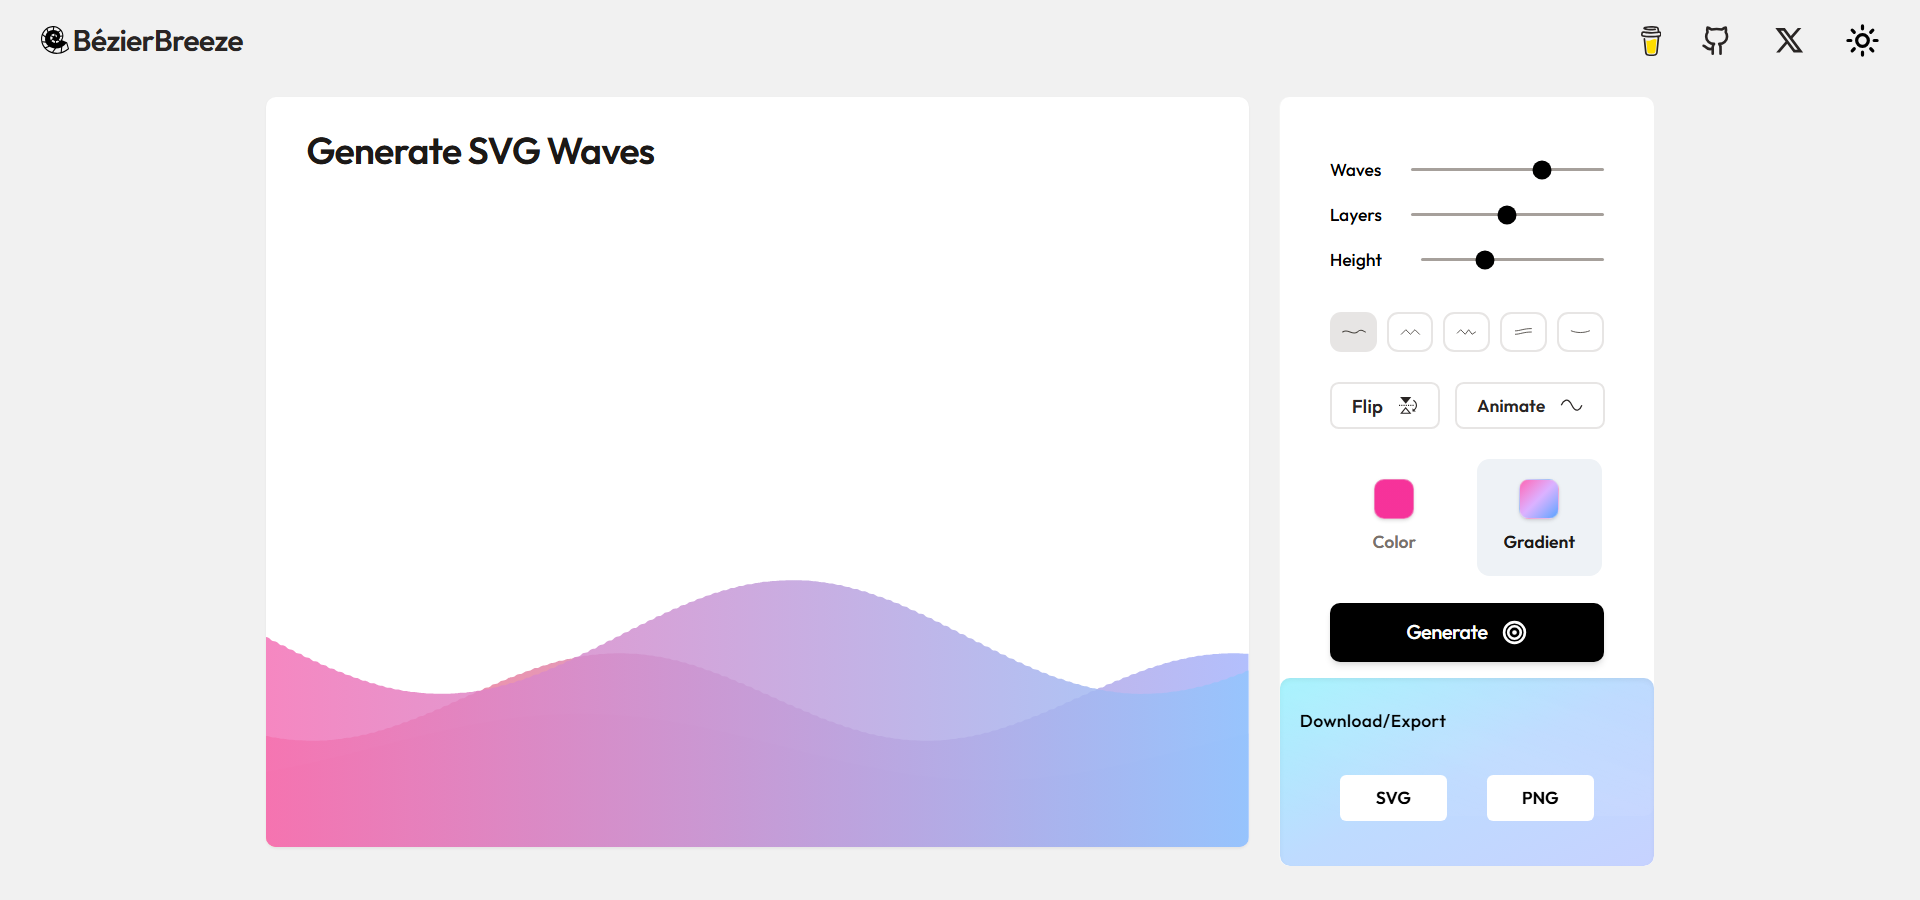
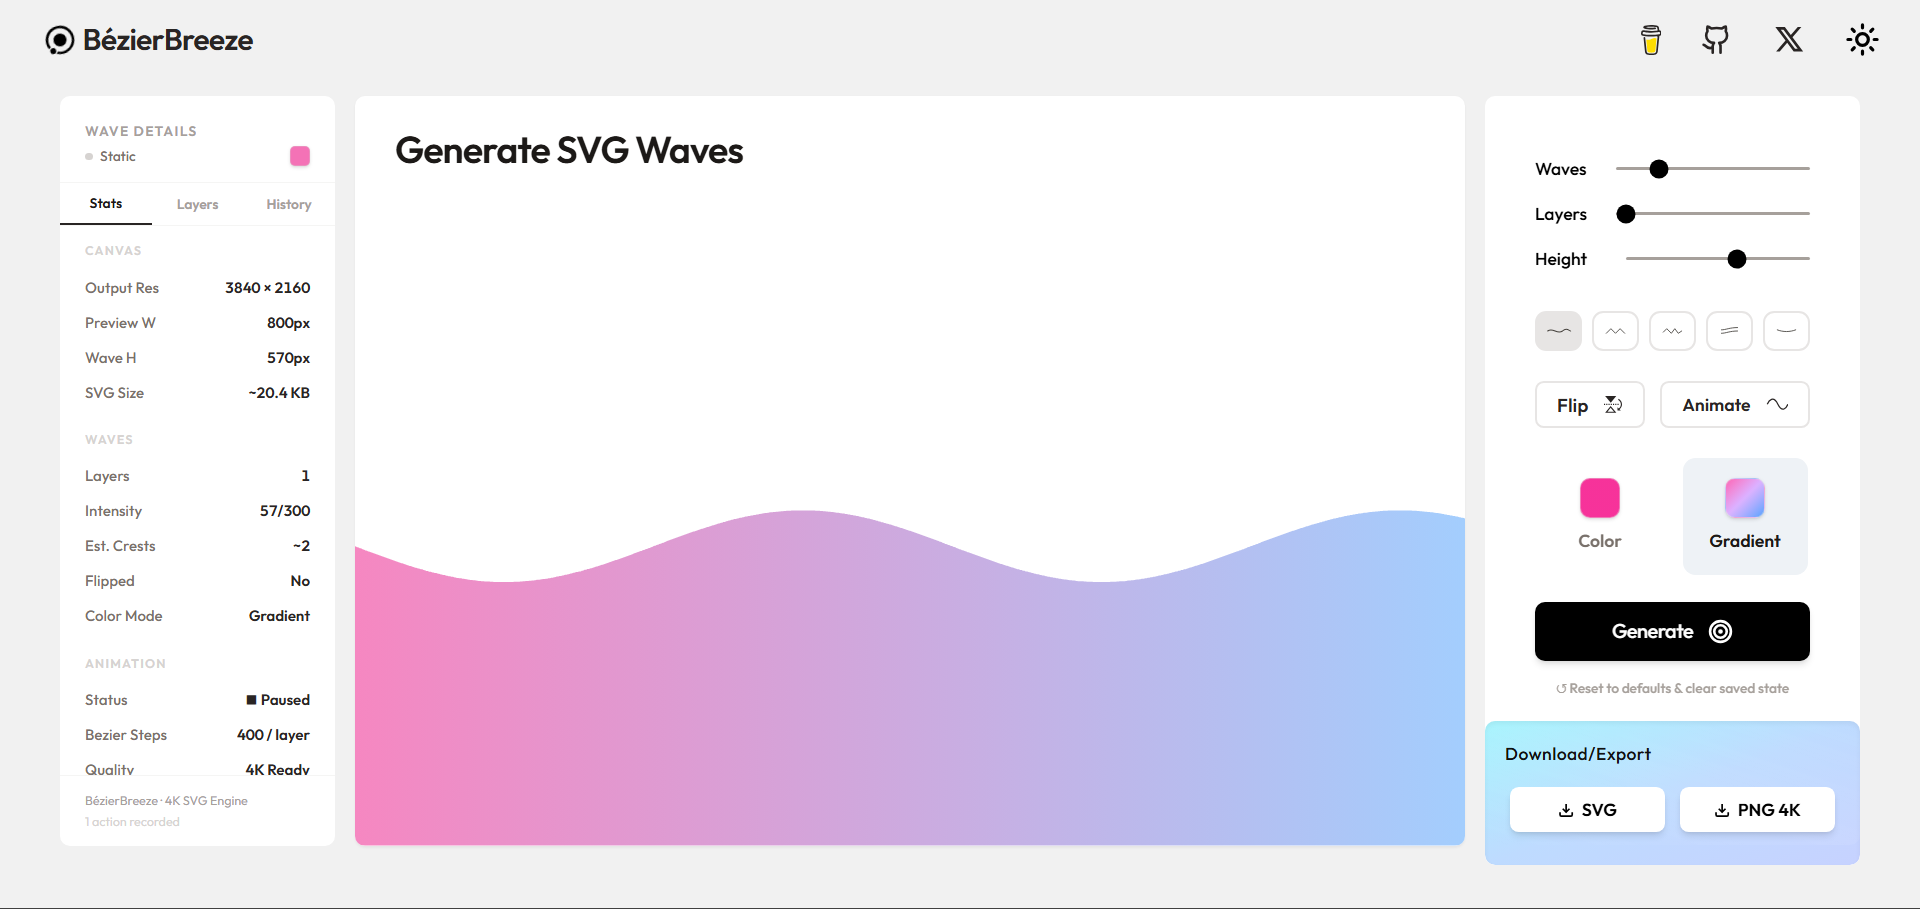
docs: update README with 4K engine, details panel, 30+ waves, localStorage persistence, and project structure

diff --git a/src/components/details/DetailsPanel.jsx b/src/components/details/DetailsPanel.jsx
@@ -57,9 +57,7 @@ export function DetailsPanel({
   return (
     <div
       className={`w-[220px] min-w-[220px] h-[600px]  rounded-[8px] flex flex-col overflow-hidden transition-colors duration-300 ${
-        isDark
-          ? 'bg-[#0E141B] border border-neutral-800/80'
-          : 'bg-white border border-stone-100 text-stone-800'
+        isDark ? 'bg-[#0E141B]' : 'bg-white text-stone-800'
       }`}
     >
       {/* Header */}

diff --git a/src/components/controls/ControlPanel.jsx b/src/components/controls/ControlPanel.jsx
@@ -59,7 +59,7 @@ export function ControlPanel({
 
   return (
     <div
-      className={`w-[280px] min-w-[300px] h-[615px] relative top-2 rounded-[8px] scrollbar-none flex overflow-hidden flex-col justify-between transition-colors duration-300 ${isDark ? 'bg-[#0E141B]' : 'bg-white border-l border-stone-100 text-stone-800'}`}
+      className={`w-[280px] min-w-[300px] h-[615px] relative top-2 rounded-[8px] scrollbar-none flex overflow-hidden flex-col justify-between transition-colors duration-300 ${isDark ? 'bg-[#0E141B]' : 'bg-white  text-stone-800'}`}
     >
       <div className="space-y-6 px-10 pt-8">
         {/* Master Sliders */}

diff --git a/README.md b/README.md
@@ -5,11 +5,10 @@
 <h1 align="center">BézierBreeze</h1>
 
 <p align="center">
-  A smooth SVG wave generator built with React.
-Create layered, customizable wave backgrounds using cubic Bezier curves.
-Adjust intensity, layers, shapes, colors, and gradients — then export as SVG, PNG, or raw code.
+  A smooth, 4K-ready SVG wave generator built with React.<br />
+  Create layered, customizable wave backgrounds using cubic Bézier curves.<br />
+  Adjust intensity, layers, shapes, colors, and gradients - then export at full 4K resolution as SVG or PNG.
 </p>
-
 
 <p align="center">
   <a href="https://bezierbreeze.vercel.app">
@@ -18,82 +17,169 @@ Adjust intensity, layers, shapes, colors, and gradients — then export as SVG, 
 </p>
 
 <p align="center">
-  <img src="./public/previewLight.png" width="100%" alt="BézierBreeze Demo" />
-  <img src="./public/previewDark.png" width="100%" alt="BézierBreeze Demo" />
+  <img src="./public/previewLight.png" width="100%" alt="BézierBreeze Light Mode" />
+  <img src="./public/previewDark.png" width="100%" alt="BézierBreeze Dark Mode" />
 </p>
+
+---
 
 ## What is BézierBreeze?
 
-**BézierBreeze** is a free, open‑source SVG wave generator built with React. It uses smooth cubic Bézier curves to create layered, customisable wave patterns that you can use for website headers, backgrounds, dividers, or any design project.
+**BézierBreeze** is a free, open-source SVG wave generator built with React. It uses smooth cubic Bézier curves (400 steps per layer) to create silky, crisp wave patterns rendered at a 3840×2160 internal coordinate space - meaning every export is 4K-ready regardless of your screen size.
 
-Adjust the intensity, number of layers, and height of your waves with simple sliders. Choose from five different wave shapes (sine, square, triangle, sawtooth, random), flip individual layers, and even animate the waves for a live preview. Every wave can be filled with a solid colour or a gradient, and you can export your creation as an SVG file, a PNG image, or copy the raw SVG code to your clipboard.
+Adjust wave intensity (0–300), number of layers, and canvas height with simple sliders. Choose from five wave style presets, flip layers vertically, and animate waves live. Fill with solid colors or gradients and export as SVG or 4K PNG. Your entire session - sliders, colors, layers, theme - is automatically saved to localStorage and restored on your next visit.
 
-No sign‑ups, no ads, no servers – everything runs directly in your browser.
+No sign-ups, no ads, no servers - everything runs directly in your browser.
 
+---
 
 ## Features
 
-**Wave Intensity**
-A single slider controls the overall "waviness" (0–100%).
-At 0% the waves are completely flat; at 100% they reach their full amplitude.
+### Wave Controls
 
-**Multiple Layers**
-Add up to 5 independent wave layers.
-Each layer can have its own shape, color, gradient, flip state, and animation.
+**Wave Intensity (0–300)**
+A single slider controls overall waviness across three zones:
+- `0–100` - amplitude scales from flat to full height
+- `100–300` - frequency ramps from 1× up to 15×, producing 30+ visible crests at maximum
+
+**Multiple Layers (1–5)**
+Add up to 5 independent wave layers, each with its own amplitude, frequency, phase speed, vertical offset, color, and flip state.
 
 **Height Control**
-Adjust the SVG canvas height (200–800 px) without affecting the surrounding layout.
+Resize the SVG canvas height (200–800 px) smoothly without affecting the surrounding layout.
 
-**Five Wave Shapes**
-- Sine: smooth continuous curve
-- Square: sharp digital edges
-- Triangle: geometric peaks
-- Sawtooth: jagged energetic lines
-- Random: unpredictable organic pattern
+**Five Wave Style Presets**
+- Gentle - long, low-frequency swells
+- Rolling - medium double-crest rhythm
+- Choppy - tight angular peaks
+- Stacked - wide-amplitude layered look
+- Flat - near-horizon subtle curve
 
 **Flip**
-Each layer can be flipped vertically, creating mirrored effects or alternating wave directions.
+Toggle all layers vertically to mirror the wave direction - useful for bottom-aligned or inverted designs.
 
 **Animate**
-Enable real-time phase animation to visualize how the waves move over time.
+Real-time phase animation with per-layer independent phase, amplitude, and frequency breathing speeds. Each layer moves at its own rate so they organically separate over time.
 
-**Solid and Gradient Fills**
-Each layer supports:
-- Solid color (color picker)
-- Two-stop linear gradient (start and end color pickers)
+**Randomize (Generate)**
+One click randomizes all layer amplitudes, frequencies, phases, vertical offsets, colors, and wave intensity simultaneously.
 
-**Randomize**
-The "Generate" button randomizes all parameters (amplitudes, frequencies, phases, colors, and wave intensity) to produce a new design instantly.
+---
 
-**Export Options**
-- SVG file download
-- PNG file download (at the current canvas size)
+### Color & Gradient
 
-**Live Preview**
-All changes are rendered immediately in the preview panel.
+**Solid Color**
+Eight pink/lavender presets, a full color picker, and a random hex generator.
+
+**Linear Gradient**
+Four two-stop gradient presets plus a random gradient generator. Gradients are baked into the SVG as `<linearGradient>` defs so they export perfectly.
+
+---
+
+### Details Panel (left sidebar)
+
+A live data panel with three tabs:
+
+**Stats tab**
+- Output resolution (always 3840×2160)
+- Preview width and wave height
+- Estimated SVG file size
+- Layer count, intensity value, estimated visible crests
+- Flip state, color mode, animation status
+- Bézier step count and quality badge
+
+**Layers tab**
+Per-layer breakdown showing base amplitude, base frequency, vertical offset percentage, opacity, flip state, and fill color or gradient for every active layer - updates live as you adjust controls.
+
+**History tab**
+A timestamped action log (up to 50 entries) recording every change: style presets, color changes, layer count adjustments, flips, randomizes, and exports. Each entry shows a relative timestamp (e.g. "just now", "3m ago").
+
+---
+
+### Export
+
+**SVG** - downloads a vector file with the full 3840×2160 viewBox. Scales to any size without quality loss.
+
+**PNG 4K** - renders to an off-screen `<canvas>` at 3840×2160 and exports a lossless PNG.
+
+Both formats support two modes:
+- **With Background** - fills the background with the current theme color (white in light mode, `#0E141B` in dark)
+- **Transparent** - no background rect, just the waves
+
+---
+
+### Persistence (localStorage)
+
+Every setting is automatically saved to `localStorage` under a `bb:` namespace and restored on your next visit - no manual save required.
+
+| Key | What it stores |
+|---|---|
+| `bb:width` | Canvas width |
+| `bb:height` | Canvas height |
+| `bb:waveIntensity` | Wave slider value |
+| `bb:numLayers` | Layer count |
+| `bb:layers` | Full layer config (amp, freq, color, gradient, etc.) |
+| `bb:history` | Action history log |
+| `bb:background` | Background color |
+| `bb:isDark` | Light / dark theme preference |
+
+Writes are debounced (300 ms) so rapid slider drags don't hammer storage. Cross-tab sync is supported via the native `storage` event. Animation phase is intentionally not persisted - it resets on load, which is the correct behavior.
+
+**Reset** - the "↺ Reset to defaults & clear saved state" button in the control panel wipes all wave state back to a single default layer. Theme preference is preserved across resets since it's a UI setting, not wave state.
+
+---
+
+### Theme
+
+Full light and dark mode with a toggle in the header. Your preference is saved to `localStorage` (`bb:isDark`) and applied instantly on every future visit.
 
 ---
 
 ## How It Works
 
-The wave generator constructs an SVG document programmatically using JavaScript.
-For each layer, a series of points is calculated along the x‑axis using a selected waveform function (sine, square, etc.).
-These points are then connected with cubic Bezier curves to create a smooth, continuous path.
+For each layer, 400 evenly-spaced points are calculated along the x-axis using a sine function with the layer's current frequency, amplitude, and phase. These points are connected with cubic Bézier curves (using midpoint control points) to produce a smooth, continuous path. The path is closed to the bottom (or top if flipped) of the canvas, filled with the selected color or gradient, and composed with other layers in reverse z-order.
 
-The path is closed to the bottom of the canvas, filled with the selected color or gradient, and combined with other layers.
-The final SVG string is injected into the preview area and can be exported.
+All geometry is computed in a 3840×2160 internal coordinate space. The SVG uses `viewBox="0 0 3840 2160"` with `preserveAspectRatio="none"` and `width="100%" height="100%"` so it scales perfectly to any container without pixel rounding artifacts.
 
 ---
 
 ## Tech Stack
 
 | Technology | Purpose |
-|------------|---------|
-| React 19   | User interface |
+|---|---|
+| React 19 | UI and state |
 | Tailwind CSS v4 | Styling |
-| Vite 6     | Build tool & development server |
+| Vite 6 | Build tool and dev server |
 | Lucide React | Icons |
-| Custom SVG/Bezier math | Wave generation logic |
+| Custom Bézier math | Wave generation and SVG output |
+| `useLocalStorage` hook | Debounced, cross-tab persistent state |
+
+---
+
+## Project Structure
+
+```
+src/
+├── App.jsx                          # Root layout (3-column: Details | Canvas | Controls)
+├── hooks/
+│   ├── useWaveGenerator.js          # All wave state, actions, and SVG generation
+│   └── useLocalStorage.js           # Generic debounced localStorage hook
+├── lib/
+│   └── waveUtils.js                 # generateWavePath, generateSVG, WAVE_STYLES
+└── components/
+    ├── layout/
+    │   ├── Header.jsx               # Logo, theme toggle, social links
+    │   └── DetailsPanel.jsx         # Stats / Layers / History tabs
+    ├── controls/
+    │   ├── ControlPanel.jsx         # Right sidebar with all controls
+    │   ├── Slider.jsx               # Reusable range slider
+    │   ├── StyleButton.jsx          # Wave preset button with inline SVG icon
+    │   ├── ColorPickerPopover.jsx   # Solid color picker
+    │   ├── GradientPickerPopover.jsx# Gradient picker
+    │   └── DownloadDropdown.jsx     # SVG / PNG export with bg options
+    └── preview/
+        └── WavePreview.jsx          # Renders SVG string into the canvas area
+```
 
 ---
 
@@ -102,7 +188,7 @@ The final SVG string is injected into the preview area and can be exported.
 ### Prerequisites
 
 - Node.js 18 or later
-- npm (or yarn/pnpm)
+- npm (or yarn / pnpm)
 
 ### Installation
 
@@ -119,9 +205,13 @@ npm install
 # Start the development server
 npm run dev
 ```
-The app will be running at `http://localhost:5173.`
 
+The app will be running at `http://localhost:5173`.
 
 ---
 
-<p align="center"> Made with 💜 using React, Tailwind CSS, and a little math.<br /> <strong>Let your backgrounds flow. 🌊</strong> </p><p align="center"> © 2026 BézierBreeze - Open Source MIT </p>
+<p align="center">
+  Made with 💜 using React, Tailwind CSS, and a little math.<br />
+  <strong>Let your backgrounds flow. 🌊</strong>
+</p>
+<p align="center">© 2026 BézierBreeze - Open Source MIT</p>